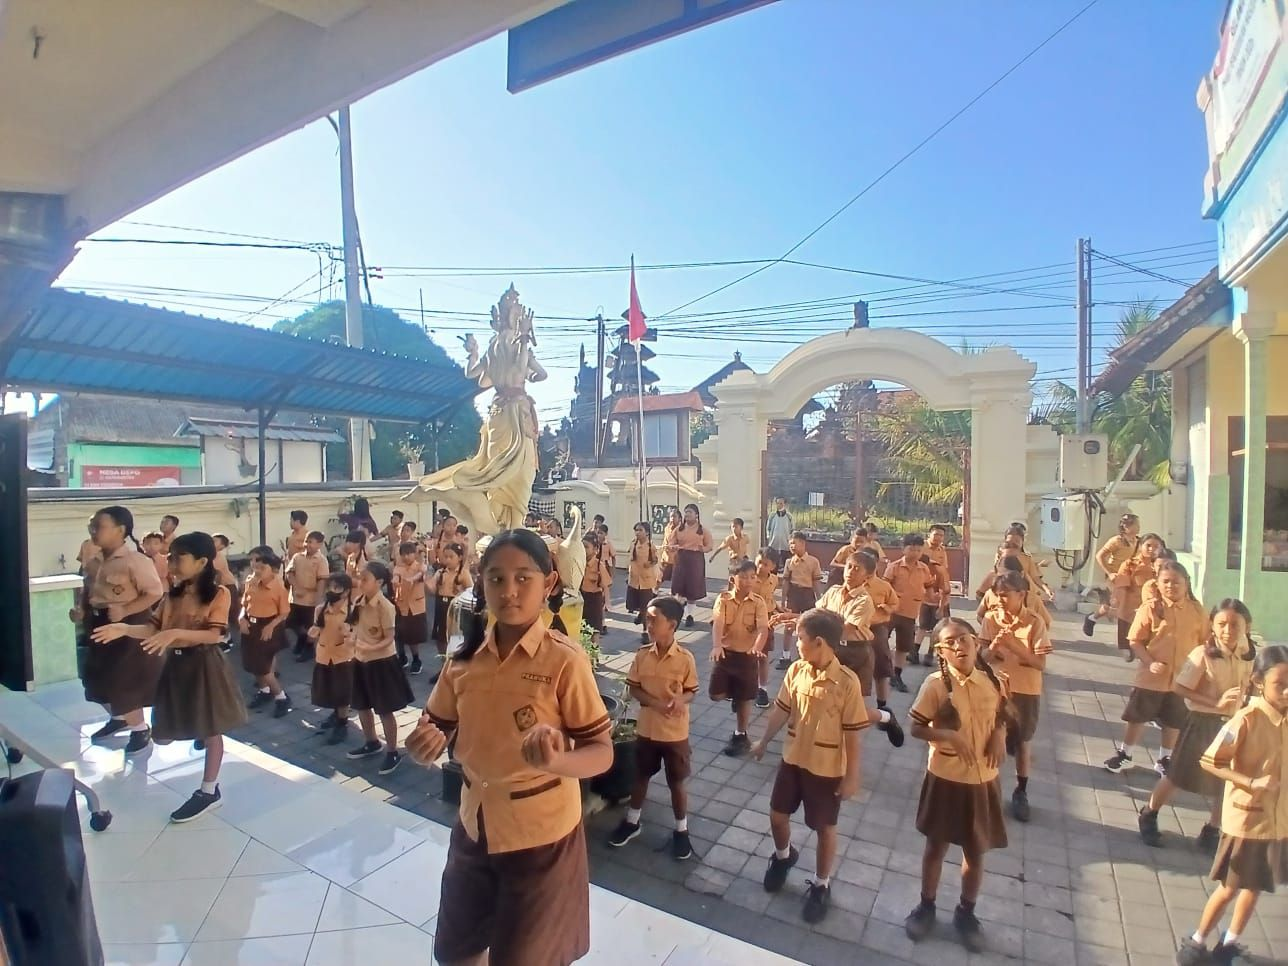
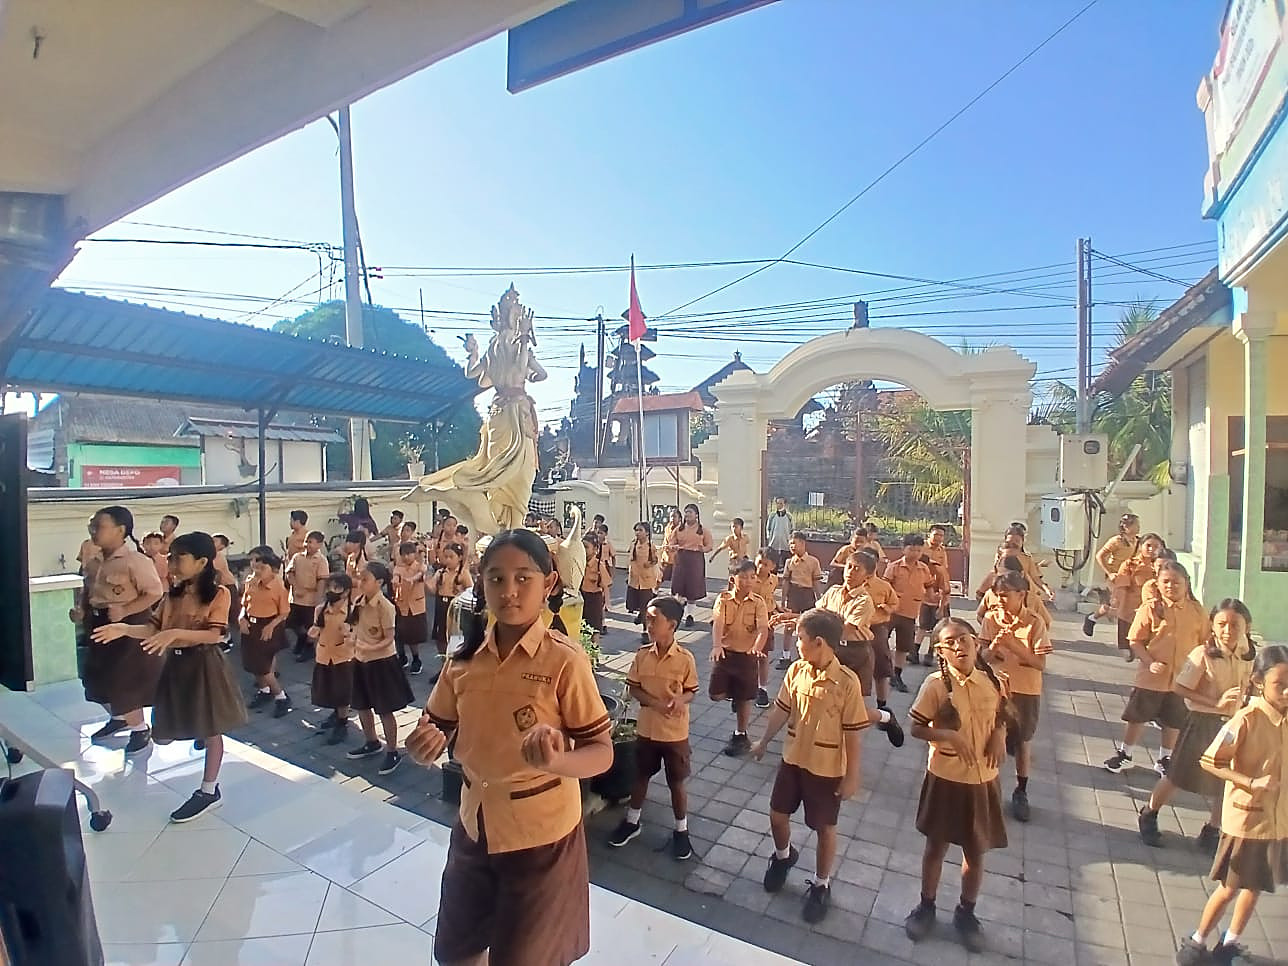
Tambah 2 foto kegiatan, foto lebih tajam, nomor telepon sekolah
- Foto disimpan di resolusi asli, kualitas 90, tanpa subsampling warna, penajaman ringan
- Lightbox tidak memperbesar foto melebihi ukuran aslinya
- Telepon/WhatsApp +62 813-3769-1257

Claude-Session: https://claude.ai/code/session_014kZGgUi5c84hyLJmwMMb4o

diff --git a/index.html b/index.html
@@ -296,7 +296,7 @@ footer{background:var(--navy-2);color:#a9b6d8;padding:60px 0 40px;font-size:.92r
 /* lightbox */
 .lb{position:fixed;inset:0;z-index:80;display:flex;align-items:center;justify-content:center;padding:70px 16px;background:rgba(8,16,38,.95);opacity:0;visibility:hidden;transition:opacity .35s,visibility .35s}
 .lb.open{opacity:1;visibility:visible}
-.lb img{max-width:100%;max-height:calc(100vh - 140px);border-radius:16px;transform:scale(.94);transition:transform .5s var(--ease-out)}
+.lb img{width:auto;height:auto;max-width:100%;max-height:calc(100vh - 140px);border-radius:16px;transform:scale(.94);transition:transform .5s var(--ease-out)}
 .lb.open img{transform:none}
 .lb button{position:absolute;width:48px;height:48px;border-radius:50%;border:0;background:rgba(255,255,255,.12);color:#fff;font-size:1.6rem;cursor:pointer}
 .lb .x{top:16px;right:16px}.lb .pv{left:14px;top:50%;margin-top:-24px}.lb .nx{right:14px;top:50%;margin-top:-24px}
@@ -607,7 +607,7 @@ const SEKOLAH = {
   alamat: "Jl. Pratu Made Rambug, Br. Sasih, Batubulan, Sukawati, Gianyar, Bali 80582",
   cariDiMaps: "SD Wirya Sedana, Batubulan, Sukawati, Gianyar, Bali",
   linkMaps: "",
-  telepon: "",
+  telepon: "6281337691257",
   email: "",
   instagram: "",
   visi: "Unggul dalam Prestasi Belajar, Menjunjung Tinggi Budaya dan Berbudi Pekerti Luhur.",
@@ -634,7 +634,9 @@ const SEKOLAH = {
   ],
   galeri: [
     { foto: "images/kegiatan-1.jpg", ket: "Kegiatan pagi di halaman sekolah" },
-    { foto: "images/kegiatan-2.jpg", ket: "Petugas upacara bendera" }
+    { foto: "images/kegiatan-2.jpg", ket: "Petugas upacara bendera" },
+    { foto: "images/kegiatan-3.jpg", ket: "Latihan musik pianika" },
+    { foto: "images/kegiatan-4.jpg", ket: "Upacara bendera di halaman sekolah" }
   ]
 };
 
@@ -704,7 +706,7 @@ if (S.galeri.length){
 const mapsLink = S.linkMaps || `https://www.google.com/maps/search/?api=1&query=${encodeURIComponent(S.cariDiMaps)}`;
 $(".js-maps").href = mapsLink;
 if (S.telepon){
-  const t = $(".js-tel"); t.textContent = "+" + S.telepon.replace(/^(\d{2})(\d{3})(\d{4})(\d+)$/, "$1 $2-$3-$4"); t.href = `https://wa.me/${S.telepon}`; t.target = "_blank";
+  const t = $(".js-tel"); t.textContent = "+" + S.telepon.replace(/^(\d{2})(\d{3})(\d{4})(\d+)$/, "$1 $2-$3-$4"); t.href = `tel:+${S.telepon}`;
   $(".js-row-tel").hidden = false;
   const w = $(".js-wa"); w.hidden = false; w.href = `https://wa.me/${S.telepon}?text=${encodeURIComponent("Halo " + S.nama + ", saya ingin bertanya informasi tentang sekolah.")}`;
 }
